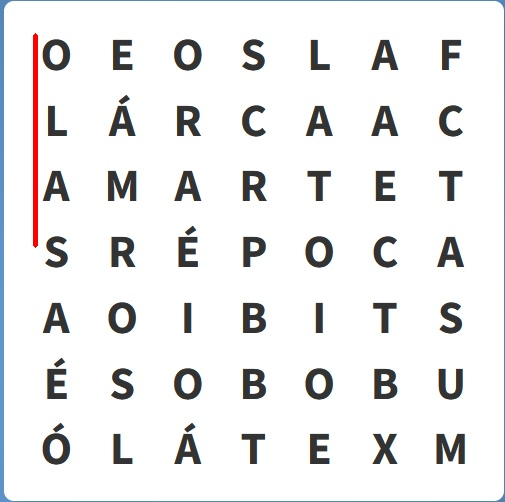
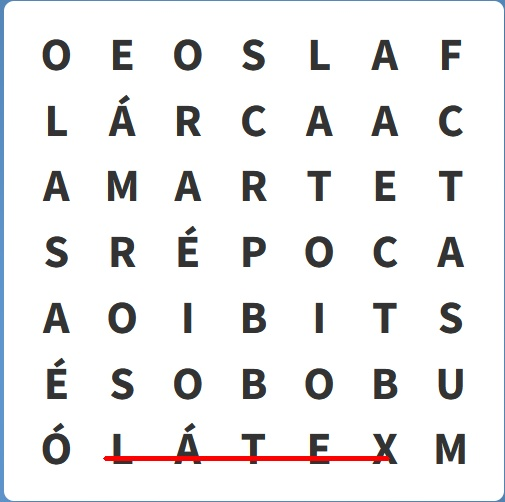
Fix error in drawing lines by ensuring coordinates are integers
Convert line coordinates to integers in pcv2.py to resolve cv2.error: (-5:Bad argument) in function 'line'

Replit-Commit-Author: Agent
Replit-Commit-Session-Id: bc7edc85-f2b7-4216-a9f3-9cb2bed75524
Replit-Commit-Checkpoint-Type: full_checkpoint
Replit-Commit-Event-Id: 0d0dd264-6e39-432c-8e2b-e27b3beff6a9
Replit-Helium-Checkpoint-Created: true

Changed region(s): [[0.2079, 0.8964, 0.7723, 0.9263], [0.0594, 0.0598, 0.0891, 0.508]]

diff --git a/pcv2.py b/pcv2.py
@@ -2,18 +2,18 @@ import cv2
 
 img = cv2.imread("sopa.png")
 
-camino = [(0, 0), (1, 0), (2, 0), (3, 0)]
+camino = [(6, 1), (6, 2), (6, 3), (6, 4), (6, 5)]
 CELL = 70.5
 
 # punto inicial
 f1, c1 = camino[0]
-x1 = c1 * CELL + CELL // 2
-y1 = f1 * CELL + CELL // 2
+x1 = int(c1 * CELL + CELL // 2)
+y1 = int(f1 * CELL + CELL // 2)
 
 # punto final
 f2, c2 = camino[-1]
-x2 = c2 * CELL + CELL // 2
-y2 = f2 * CELL + CELL // 2
+x2 = int(c2 * CELL + CELL // 2)
+y2 = int(f2 * CELL + CELL // 2)
 
 # dibujar línea
 cv2.line(img, (x1, y1), (x2, y2), (0, 0, 255), 3)
